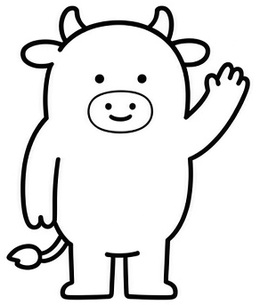
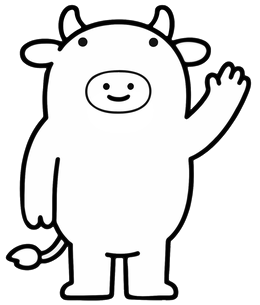
開場社牛換新、手尾巴搖

diff --git a/index.html b/index.html
@@ -127,7 +127,7 @@ input::placeholder,textarea::placeholder{color:#0006}
 .conf{color:#111;font-size:20px}.conf:nth-child(2n){color:#ffb020}
 #qen{margin-top:14px;font-size:14px;font-weight:500;line-height:1.45;color:#0009;font-family:"Avenir Next",-apple-system,sans-serif;font-style:italic}
 #splash{position:fixed;inset:0;z-index:9999;background:#f6f1e7;display:flex;flex-direction:column;align-items:center;justify-content:center;animation:spOut .45s ease 2.55s forwards;color:#111}
-#splash img{width:170px;transform-origin:50% 100%;animation:spIn .7s cubic-bezier(.3,1.6,.5,1) both,spWave .5s ease-in-out .75s 3 alternate}
+#splash .mw{position:relative;width:170px;height:199px;animation:spIn .7s cubic-bezier(.3,1.6,.5,1) both}#splash .mw img{position:absolute;inset:0;width:100%}#splash .ma{transform-origin:73.8% 45.9%;animation:spArm .32s ease-in-out .6s 7 alternate}#splash .mt{transform-origin:21% 78%;animation:spTail .4s ease-in-out .5s 6 alternate}@keyframes spArm{0%{transform:rotate(-6deg)}100%{transform:rotate(10deg)}}@keyframes spTail{0%{transform:rotate(-14deg)}100%{transform:rotate(16deg)}}
 #splash .t{font-size:30px;font-weight:900;margin-top:18px;letter-spacing:2px;animation:spFade .5s ease .8s both}
 #splash .e{font-size:15px;font-weight:700;margin-top:4px;opacity:.7;animation:spFade .5s ease 1s both}
 #splash .st{position:absolute;font-size:26px;animation:spTw 1s ease-in-out .5s infinite alternate both}
@@ -136,7 +136,7 @@ input::placeholder,textarea::placeholder{color:#0006}
 @keyframes spFade{0%{opacity:0;transform:translateY(10px)}100%{opacity:1;transform:none}}
 @keyframes spTw{0%{opacity:0;transform:scale(.5)}100%{opacity:1;transform:scale(1.1)}}
 @keyframes spOut{to{opacity:0;visibility:hidden}}
-</style></head><body><div id="splash" onclick="this.remove()"><span class="st" style="top:24%;left:22%">✦</span><span class="st" style="top:30%;right:20%;animation-delay:.8s">✦</span><span class="st" style="bottom:26%;left:28%;font-size:18px;animation-delay:1.1s">✦</span><img src="mascot.png" alt="社牛"><div class="t">很高興認識你</div><div class="e">Nice to meet you</div></div><script>setTimeout(function(){var s=document.getElementById('splash');s&&s.remove()},3100)</script>
+</style></head><body><div id="splash" onclick="this.remove()"><span class="st" style="top:24%;left:22%">✦</span><span class="st" style="top:30%;right:20%;animation-delay:.8s">✦</span><span class="st" style="bottom:26%;left:28%;font-size:18px;animation-delay:1.1s">✦</span><div class="mw"><img src="m_tail.png" class="mt" alt=""><img src="m_body.png" alt="社牛"><img src="m_arm.png" class="ma" alt=""></div><div class="t">很高興認識你</div><div class="e">Nice to meet you</div></div><script>setTimeout(function(){var s=document.getElementById('splash');s&&s.remove()},3100)</script>
 
 <div id="setup" class="scr">
 <h1 style="margin-top:2px">很高興認識你</h1><p class="sub" style="font-size:17px;letter-spacing:1px;color:var(--g);opacity:.9">Nice to meet you</p>

diff --git a/template.html b/template.html
@@ -127,7 +127,7 @@ input::placeholder,textarea::placeholder{color:#0006}
 .conf{color:#111;font-size:20px}.conf:nth-child(2n){color:#ffb020}
 #qen{margin-top:14px;font-size:14px;font-weight:500;line-height:1.45;color:#0009;font-family:"Avenir Next",-apple-system,sans-serif;font-style:italic}
 #splash{position:fixed;inset:0;z-index:9999;background:#f6f1e7;display:flex;flex-direction:column;align-items:center;justify-content:center;animation:spOut .45s ease 2.55s forwards;color:#111}
-#splash img{width:170px;transform-origin:50% 100%;animation:spIn .7s cubic-bezier(.3,1.6,.5,1) both,spWave .5s ease-in-out .75s 3 alternate}
+#splash .mw{position:relative;width:170px;height:199px;animation:spIn .7s cubic-bezier(.3,1.6,.5,1) both}#splash .mw img{position:absolute;inset:0;width:100%}#splash .ma{transform-origin:73.8% 45.9%;animation:spArm .32s ease-in-out .6s 7 alternate}#splash .mt{transform-origin:21% 78%;animation:spTail .4s ease-in-out .5s 6 alternate}@keyframes spArm{0%{transform:rotate(-6deg)}100%{transform:rotate(10deg)}}@keyframes spTail{0%{transform:rotate(-14deg)}100%{transform:rotate(16deg)}}
 #splash .t{font-size:30px;font-weight:900;margin-top:18px;letter-spacing:2px;animation:spFade .5s ease .8s both}
 #splash .e{font-size:15px;font-weight:700;margin-top:4px;opacity:.7;animation:spFade .5s ease 1s both}
 #splash .st{position:absolute;font-size:26px;animation:spTw 1s ease-in-out .5s infinite alternate both}
@@ -136,7 +136,7 @@ input::placeholder,textarea::placeholder{color:#0006}
 @keyframes spFade{0%{opacity:0;transform:translateY(10px)}100%{opacity:1;transform:none}}
 @keyframes spTw{0%{opacity:0;transform:scale(.5)}100%{opacity:1;transform:scale(1.1)}}
 @keyframes spOut{to{opacity:0;visibility:hidden}}
-</style></head><body><div id="splash" onclick="this.remove()"><span class="st" style="top:24%;left:22%">✦</span><span class="st" style="top:30%;right:20%;animation-delay:.8s">✦</span><span class="st" style="bottom:26%;left:28%;font-size:18px;animation-delay:1.1s">✦</span><img src="mascot.png" alt="社牛"><div class="t">很高興認識你</div><div class="e">Nice to meet you</div></div><script>setTimeout(function(){var s=document.getElementById('splash');s&&s.remove()},3100)</script>
+</style></head><body><div id="splash" onclick="this.remove()"><span class="st" style="top:24%;left:22%">✦</span><span class="st" style="top:30%;right:20%;animation-delay:.8s">✦</span><span class="st" style="bottom:26%;left:28%;font-size:18px;animation-delay:1.1s">✦</span><div class="mw"><img src="m_tail.png" class="mt" alt=""><img src="m_body.png" alt="社牛"><img src="m_arm.png" class="ma" alt=""></div><div class="t">很高興認識你</div><div class="e">Nice to meet you</div></div><script>setTimeout(function(){var s=document.getElementById('splash');s&&s.remove()},3100)</script>
 
 <div id="setup" class="scr">
 <h1 style="margin-top:2px">很高興認識你</h1><p class="sub" style="font-size:17px;letter-spacing:1px;color:var(--g);opacity:.9">Nice to meet you</p>
